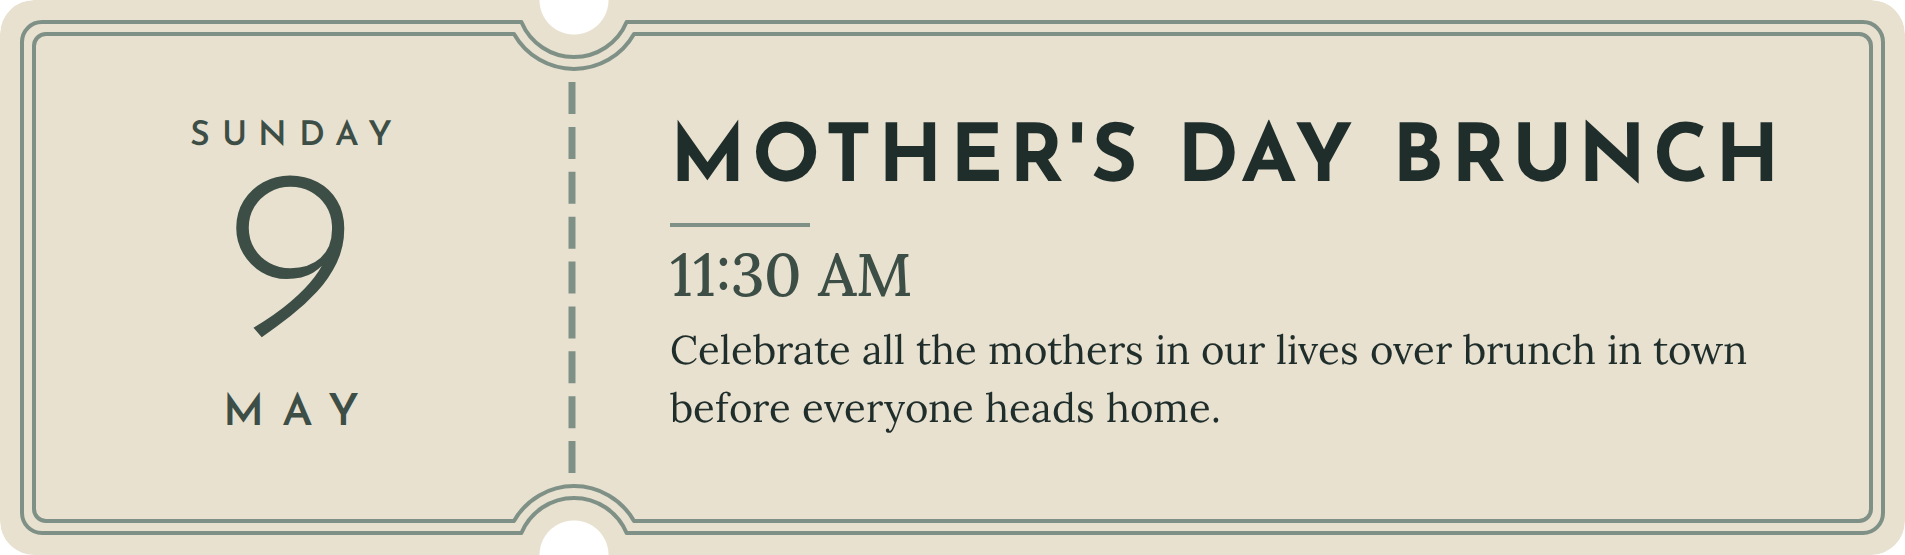
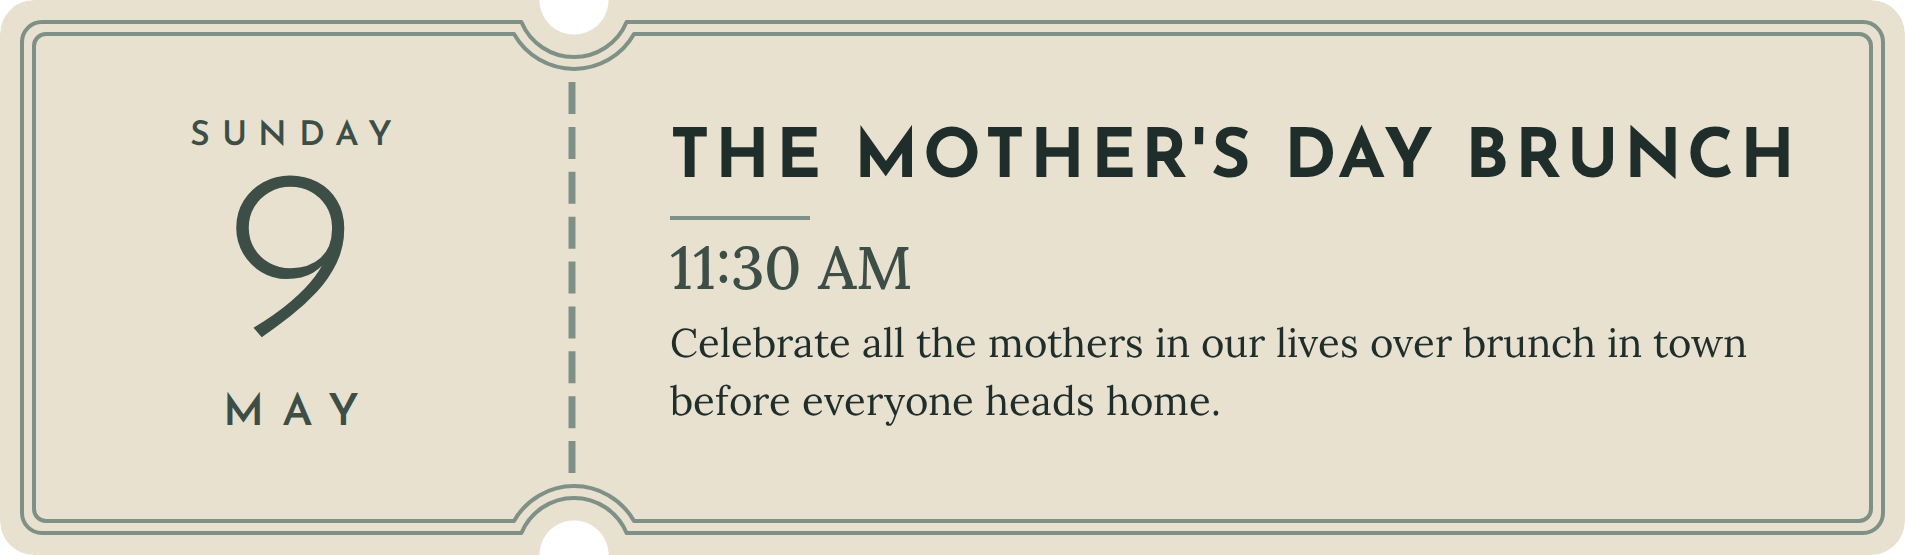
deploy: 3c865cb5656dc1752935e7d00bd4dc4c98f534db

diff --git a/assets/events-data.js b/assets/events-data.js
@@ -22,7 +22,7 @@ window.WEDDING_EVENTS = [
   },
   {
     key: "fri_reception_party",
-    label: "Reception",
+    label: "The Reception",
     day: "Friday",
     date: "7th",
     time: "5:00 PM",
@@ -54,7 +54,7 @@ window.WEDDING_EVENTS = [
   },
   {
     key: "sun_brunch",
-    label: "Mother's Day Brunch",
+    label: "The Mother's Day Brunch",
     day: "Sunday",
     date: "9th",
     time: "11:30 AM",
